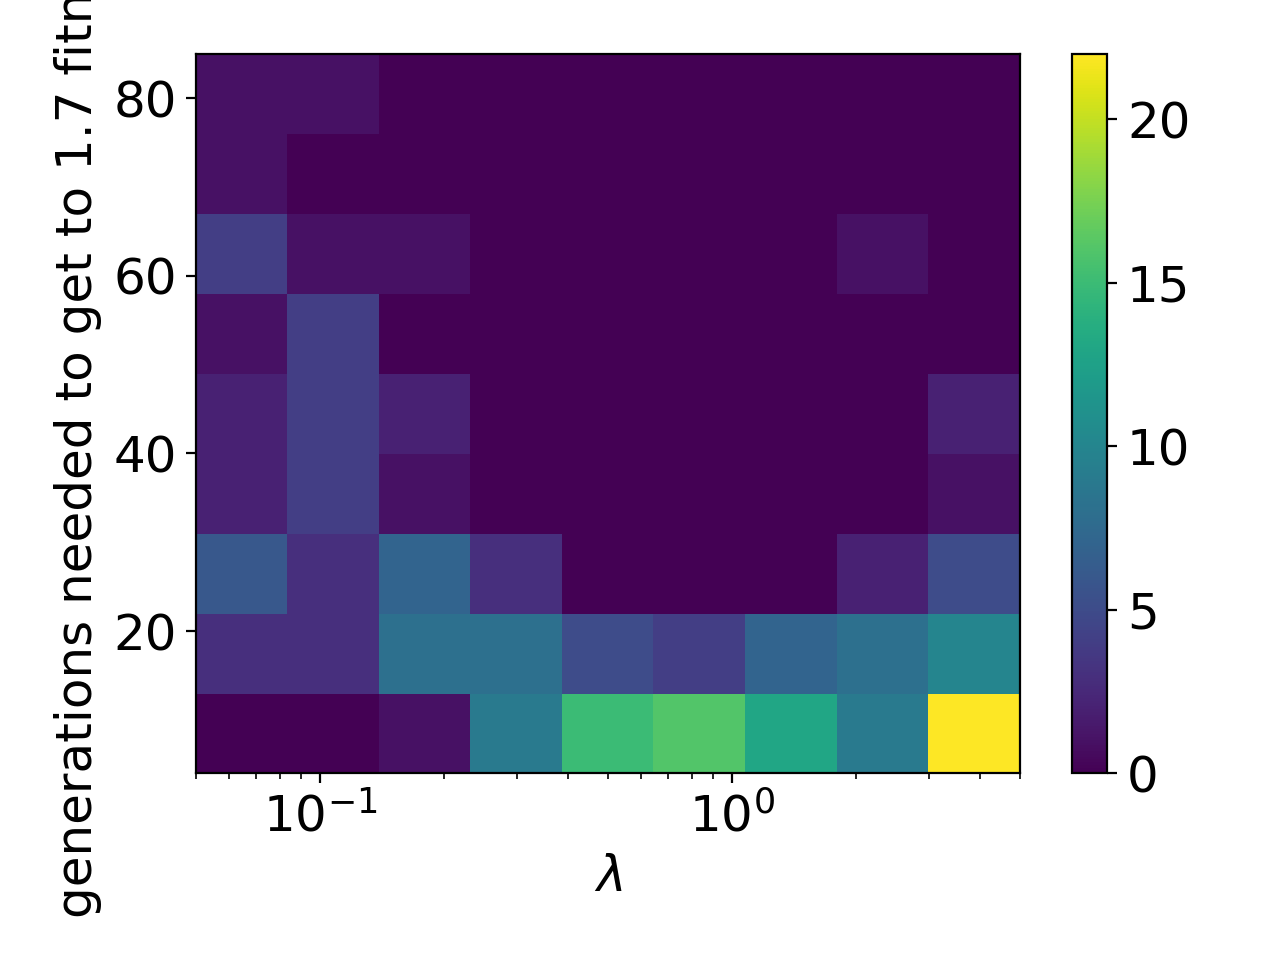
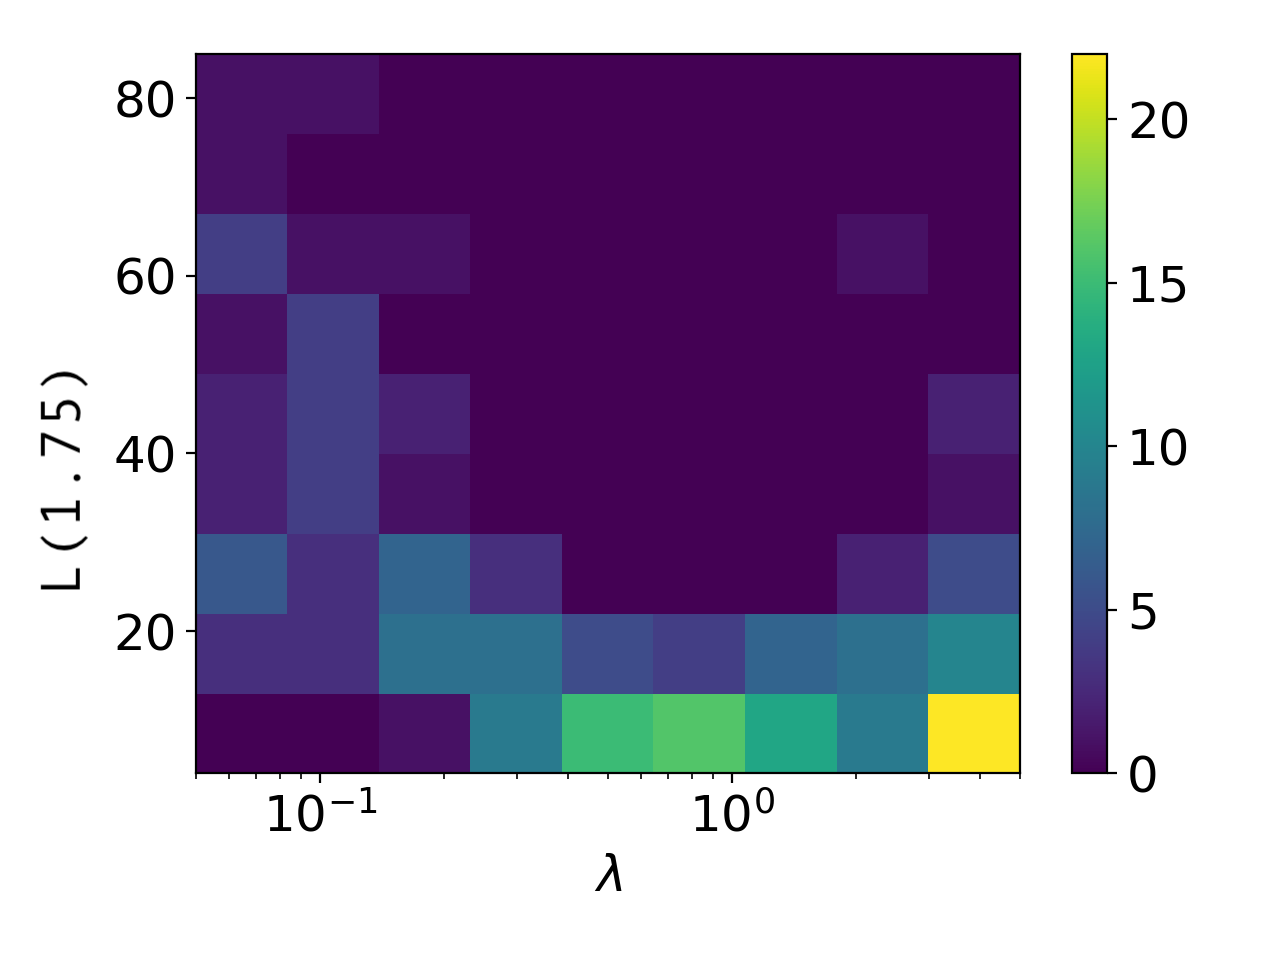
heatmaps_new

diff --git a/Code/velocity_heatmaps.py b/Code/velocity_heatmaps.py
@@ -1,4 +1,6 @@
 from GA import GA_falling_ball
+import matplotlib.pyplot as plt
+import matplotlib.colors as mlpc
 from progress import progress
 import matplotlib.pyplot as plt
 import numpy as np
@@ -26,7 +28,7 @@ plt.rc('figure', titlesize=18)  # fontsize of the figure title
 #Y = [] # velocities for heatmap
 #
 samples = 20 # nb of fitnesses computed per lambda
-desired_fitness = 1.53 # minimum average fitness to reach 
+#desired_fitness = 1.75 # minimum average fitness to reach 
 #
 tic = time.perf_counter() # take time reference
 #
@@ -46,7 +48,7 @@ tic = time.perf_counter() # take time reference
 #        generations_required=0
 #        avg_fitness=0
 #        while(avg_fitness<desired_fitness):
-#           if generations_required==100:
+#            if generations_required==100:
 #               break
 #            avg_fitness, new_chromosomes=GA_falling_ball(trial_chromosomes, 1, N, l, s)[0:3:2]
 #            trial_chromosomes=new_chromosomes
@@ -80,7 +82,7 @@ s = [1, 3, 5, 7, 9, 11] # size of pod
 lbd = 0.5 # parameter lambda
 X = [] # s for heatmap
 Y = [] # fitnesses for heatmapsamples = 20 # nb of fitnesses computed per lambda
-desired_fitness = 1.6 # minimum average fitness to reach tic = time.perf_counter() # take time reference
+desired_fitness = 1.75 # minimum average fitness to reach tic = time.perf_counter() # take time reference
 for i,e in enumerate(s): # iterate on s
     for m in range(samples): # take some samples
         frac = i/len(s) + m/(len(s)*samples) # follow progression
@@ -109,7 +111,7 @@ plt.figure()
 plt.hist2d(X, Y, bins=(np.linspace(0, 12, 7), np.linspace(min(Y),max(Y),10)))
 plt.xlabel('$s$')
 plt.xticks(s)
-plt.ylabel(f'generations needed to get to {desired_fitness} fitness')
+plt.ylabel(f'L( {desired_fitness})')
 plt.colorbar()
 plt.tight_layout()
 plt.show()

diff --git a/Code/GA.py b/Code/GA.py
@@ -39,7 +39,7 @@ def GA_falling_ball(initial_population, steps, N, lbd, s):
         parents_indices = parent_selection('fitness_proportional', current_population, 25, N, lbd, s)
 
         # generate offspring: method='two_by_two'
-        new_generation=offspring_method(parents_indices, current_population, 'traditional_cross')
+        new_generation=offspring_method(parents_indices, current_population, 'two_by_two')
 
         # evaluate efficiency of new generation and store 
         fitnesses = np.asarray([falling_ball_game(chromosome, N, lbd, s) for chromosome in new_generation])

diff --git a/Code/aux_func.py b/Code/aux_func.py
@@ -28,7 +28,7 @@ def parent_selection(method, population, n, N, lbd, s):
     # choose fitness proportional selection: probability is proportional to fitness
     if method=='fitness_proportional':
         
-        # keep best 25 chromosomes  
+        # choose 25 chromosomes  
         sorted_indices=np.argsort(current_population_fitness)[::-1] 
         cpf=np.argsort(current_population_fitness)[::-1][1:n+1]
         
